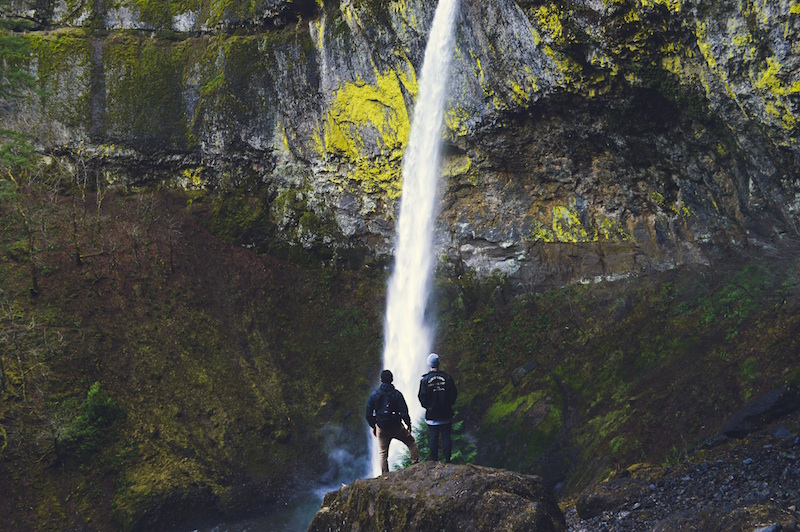
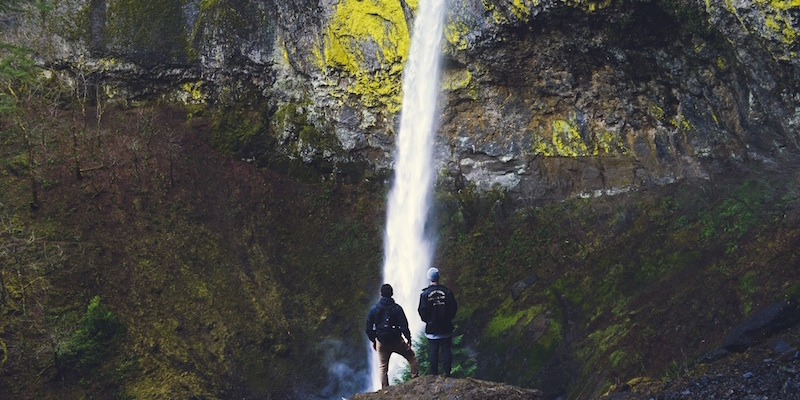
editing waterfall pic

diff --git a/final/home.html b/final/home.html
@@ -29,6 +29,15 @@
 
                         </div>
                     </header>
+               
+            <section class="sign_up_today">
+                <div class="waterfall">
+                    <img src="http://tiffaneyparis.github.io/final/two_at_waterfall.jpg">
                 </div>
+            
+            
+                 </div>
+            
+            </section>
         </body>
 </html>

diff --git a/final/final_blog.css b/final/final_blog.css
@@ -42,7 +42,7 @@ a {
 }
 
 .main_content {
-    background: gray;
+    background: lightgray;
     width: 800px;
     height: auto;
     margin: 0 auto 0 auto;
@@ -75,6 +75,5 @@ footer {
     text-align: right;
     font-size: 12px;
     padding: 10px 10px 0 0;
-
 }
 

diff --git a/final/final_home.css b/final/final_home.css
@@ -35,3 +35,9 @@ a {
     color: black;
 }
 
+.sign_up_today {
+    width: 800px;
+    height: auto;
+}
+
+
